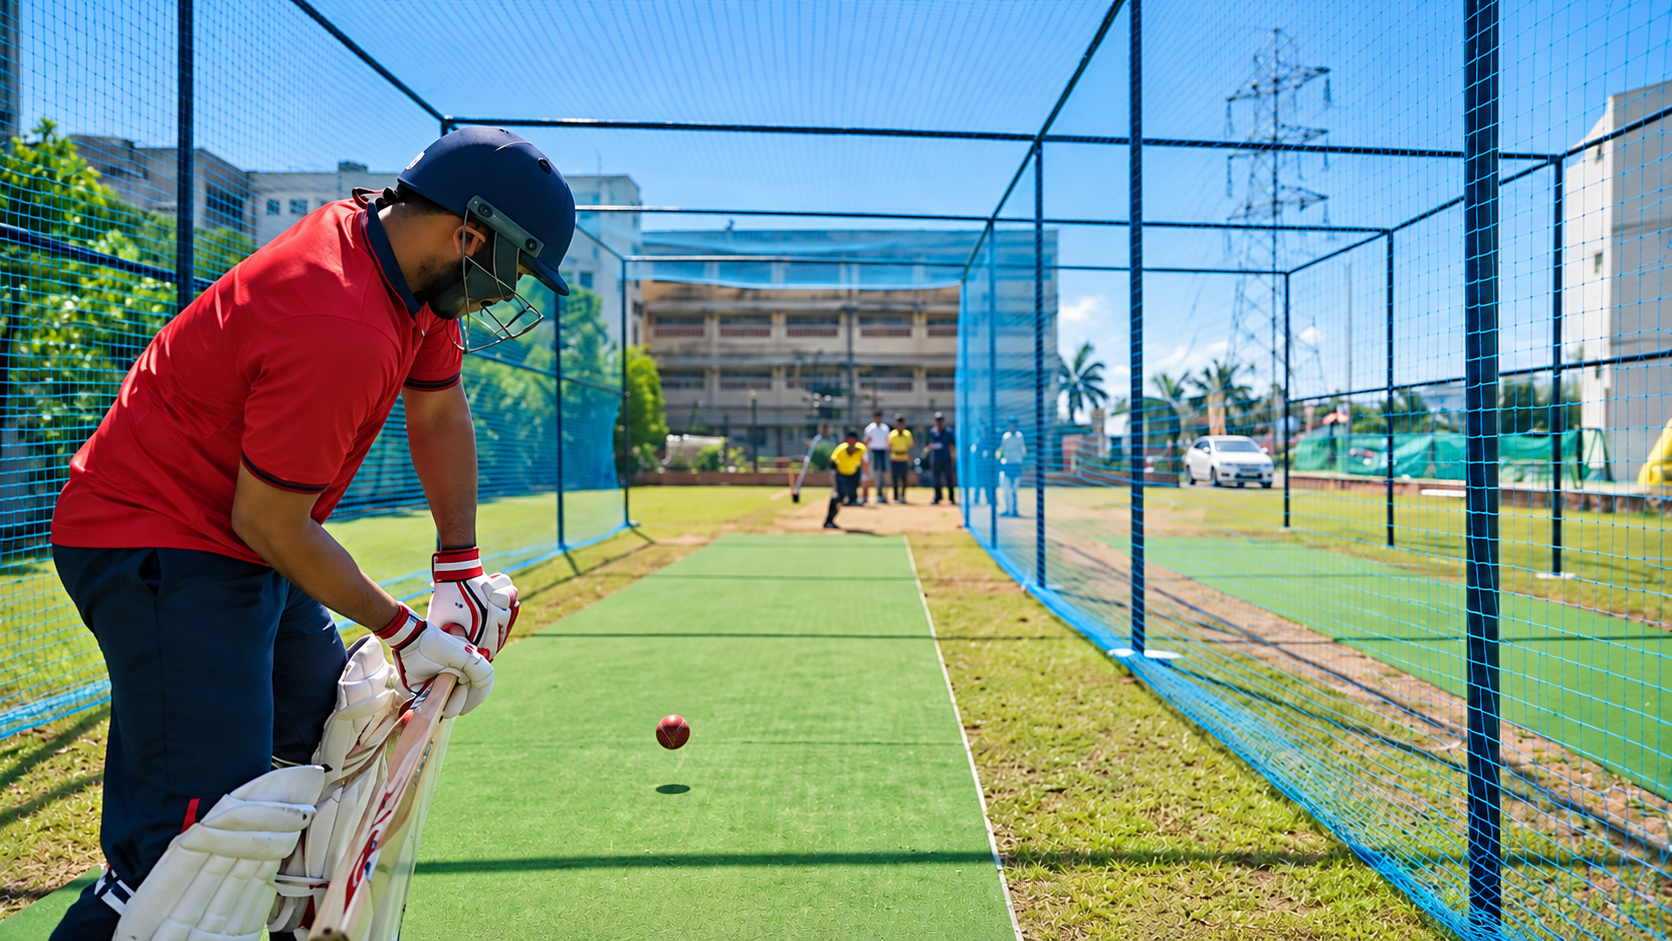
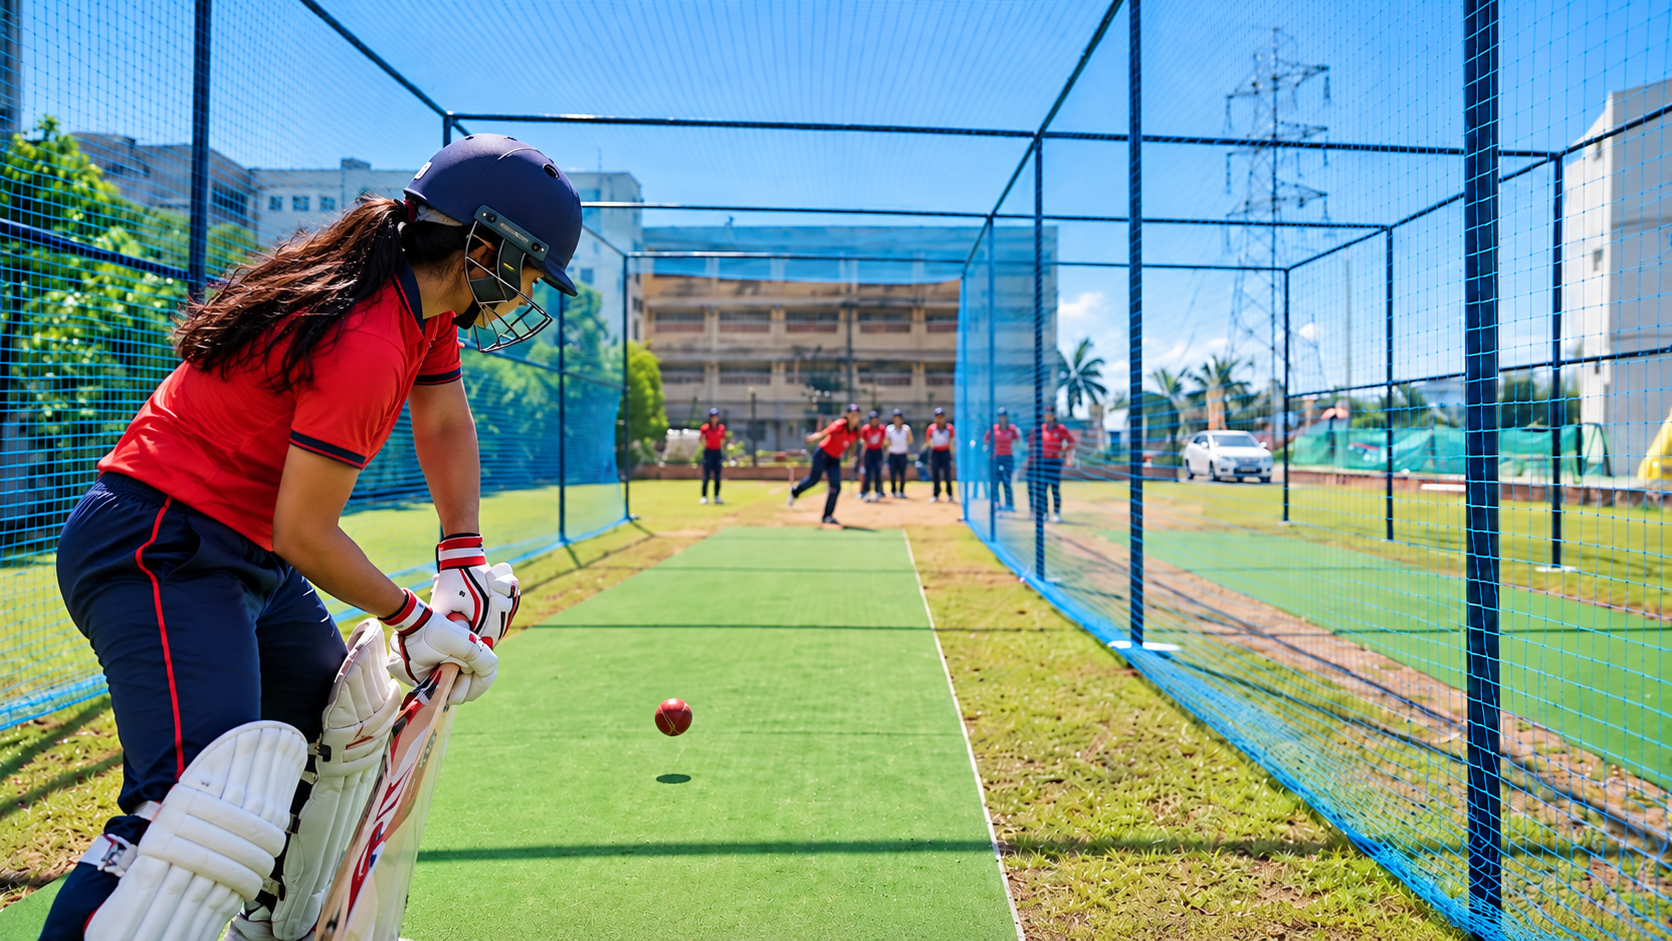
update images

diff --git a/frontend-girls/src/components/Hero.jsx b/frontend-girls/src/components/Hero.jsx
@@ -69,7 +69,7 @@ export default function Hero() {
   };
 
   const handleWhatsAppSend = () => {
-    const text = encodeURIComponent('Hello, I want to register for Rungta Premier League 5.0.');
+    const text = encodeURIComponent('Hello, I want to register our team for Rungta Premier League 5.0.');
     window.open(`https://wa.me/919229111555?text=${text}`, '_blank');
   };
 
@@ -90,12 +90,12 @@ export default function Hero() {
     <section className="hero" id="home">
       <div className="hero-overlay"></div>
 
-      {/* BACKGROUND CRICKET IMAGE LAYER (FULL RIGHT WIDTH) */}
+      {/* BACKGROUND CRICKET IMAGE LAYER (HIGH-RES GIRLS CRICKET ACTION) */}
       <div className="hero-player">
         <div className="hero-player-glow"></div>
         <img
-          src="https://images.unsplash.com/photo-1531415074968-036ba1b575da?auto=format&fit=crop&w=2000&q=90"
-          alt="Cricket Stadium"
+          src="/images/girls-cricket-hero.jpg"
+          alt="Girls Cricket Tournament"
         />
       </div>
 
@@ -375,7 +375,7 @@ export default function Hero() {
             </div>
           </div>
 
-          {/* 3. UNDER 18 */}
+          {/* 2. UNDER 18 */}
           <div className="hero-feature">
             <div className="hero-feat-icon">
               <svg viewBox="0 0 48 48" className="hero-feat-svg" fill="#f8c51c">
@@ -393,7 +393,7 @@ export default function Hero() {
             </div>
           </div>
 
-          {/* 4. TENNIS BALL (CROSSED BATS) */}
+          {/* 3. TENNIS BALL (CROSSED BATS) */}
           <div className="hero-feature">
             <div className="hero-feat-icon">
               <svg viewBox="0 0 48 48" className="hero-feat-svg" fill="none">
@@ -417,7 +417,7 @@ export default function Hero() {
             </div>
           </div>
 
-          {/* 5. RSR RCET CRICKET GROUND */}
+          {/* 4. RSR RCET CRICKET GROUND */}
           <div className="hero-feature">
             <div className="hero-feat-icon">
               <svg viewBox="0 0 48 48" className="hero-feat-svg" fill="#f8c51c">
